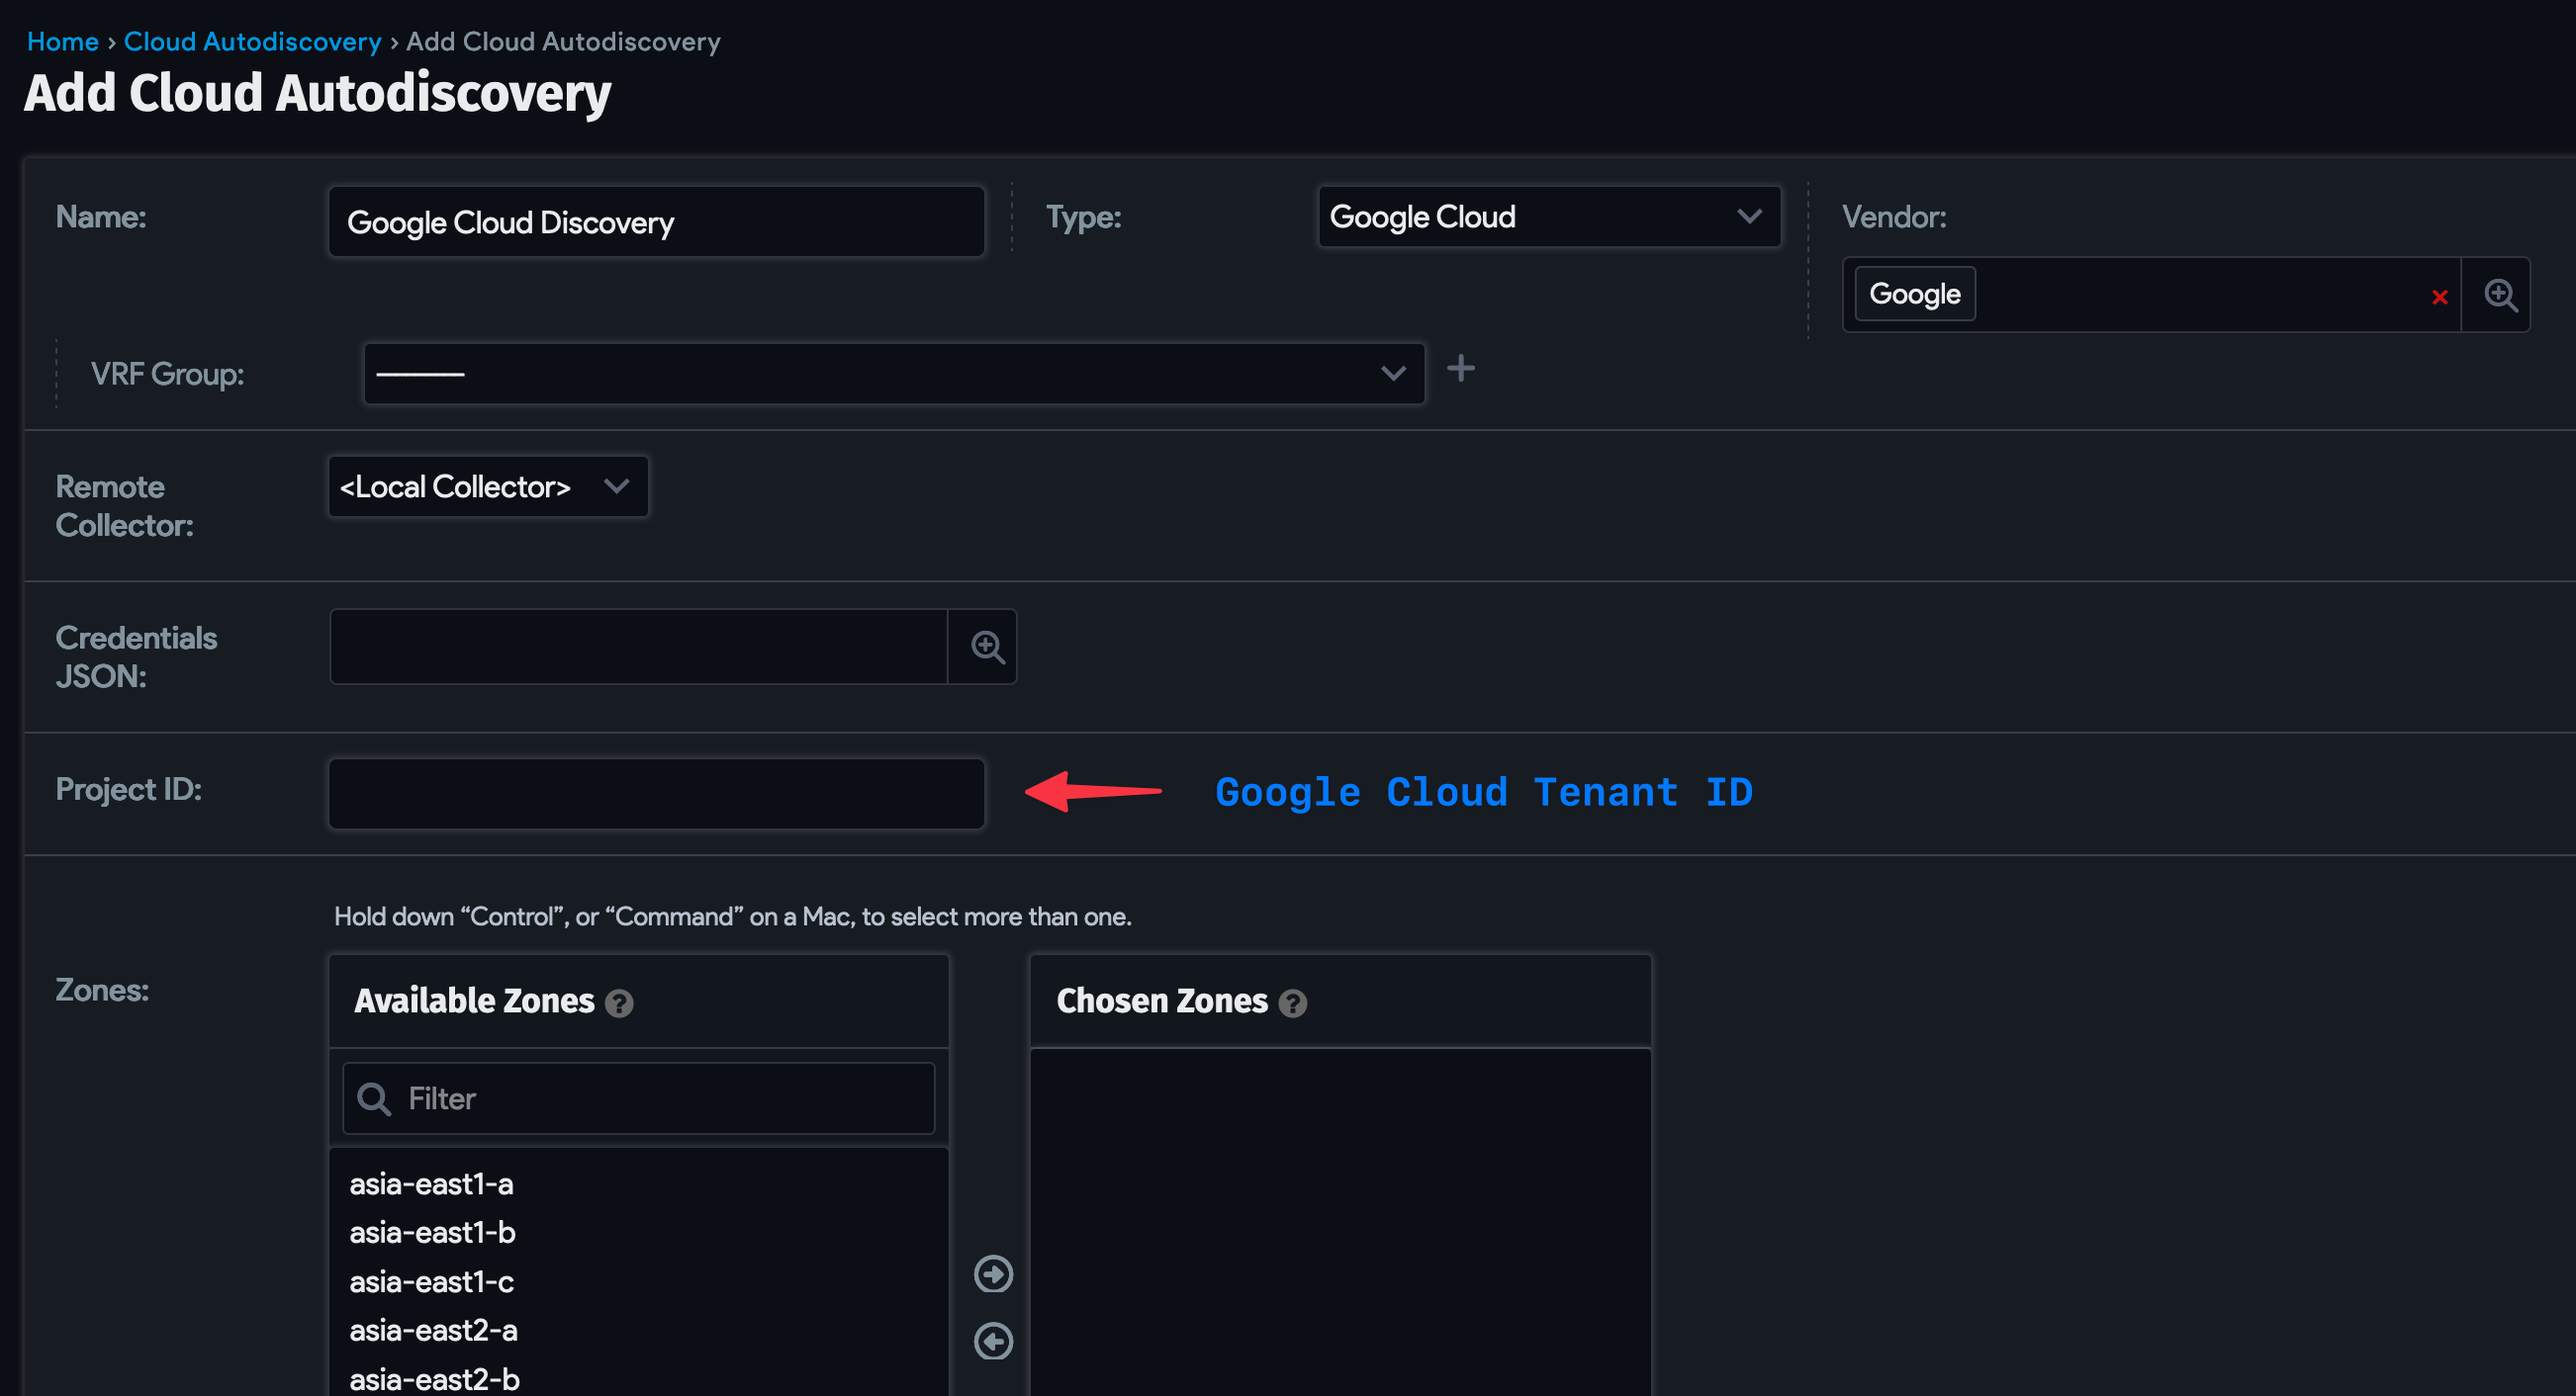
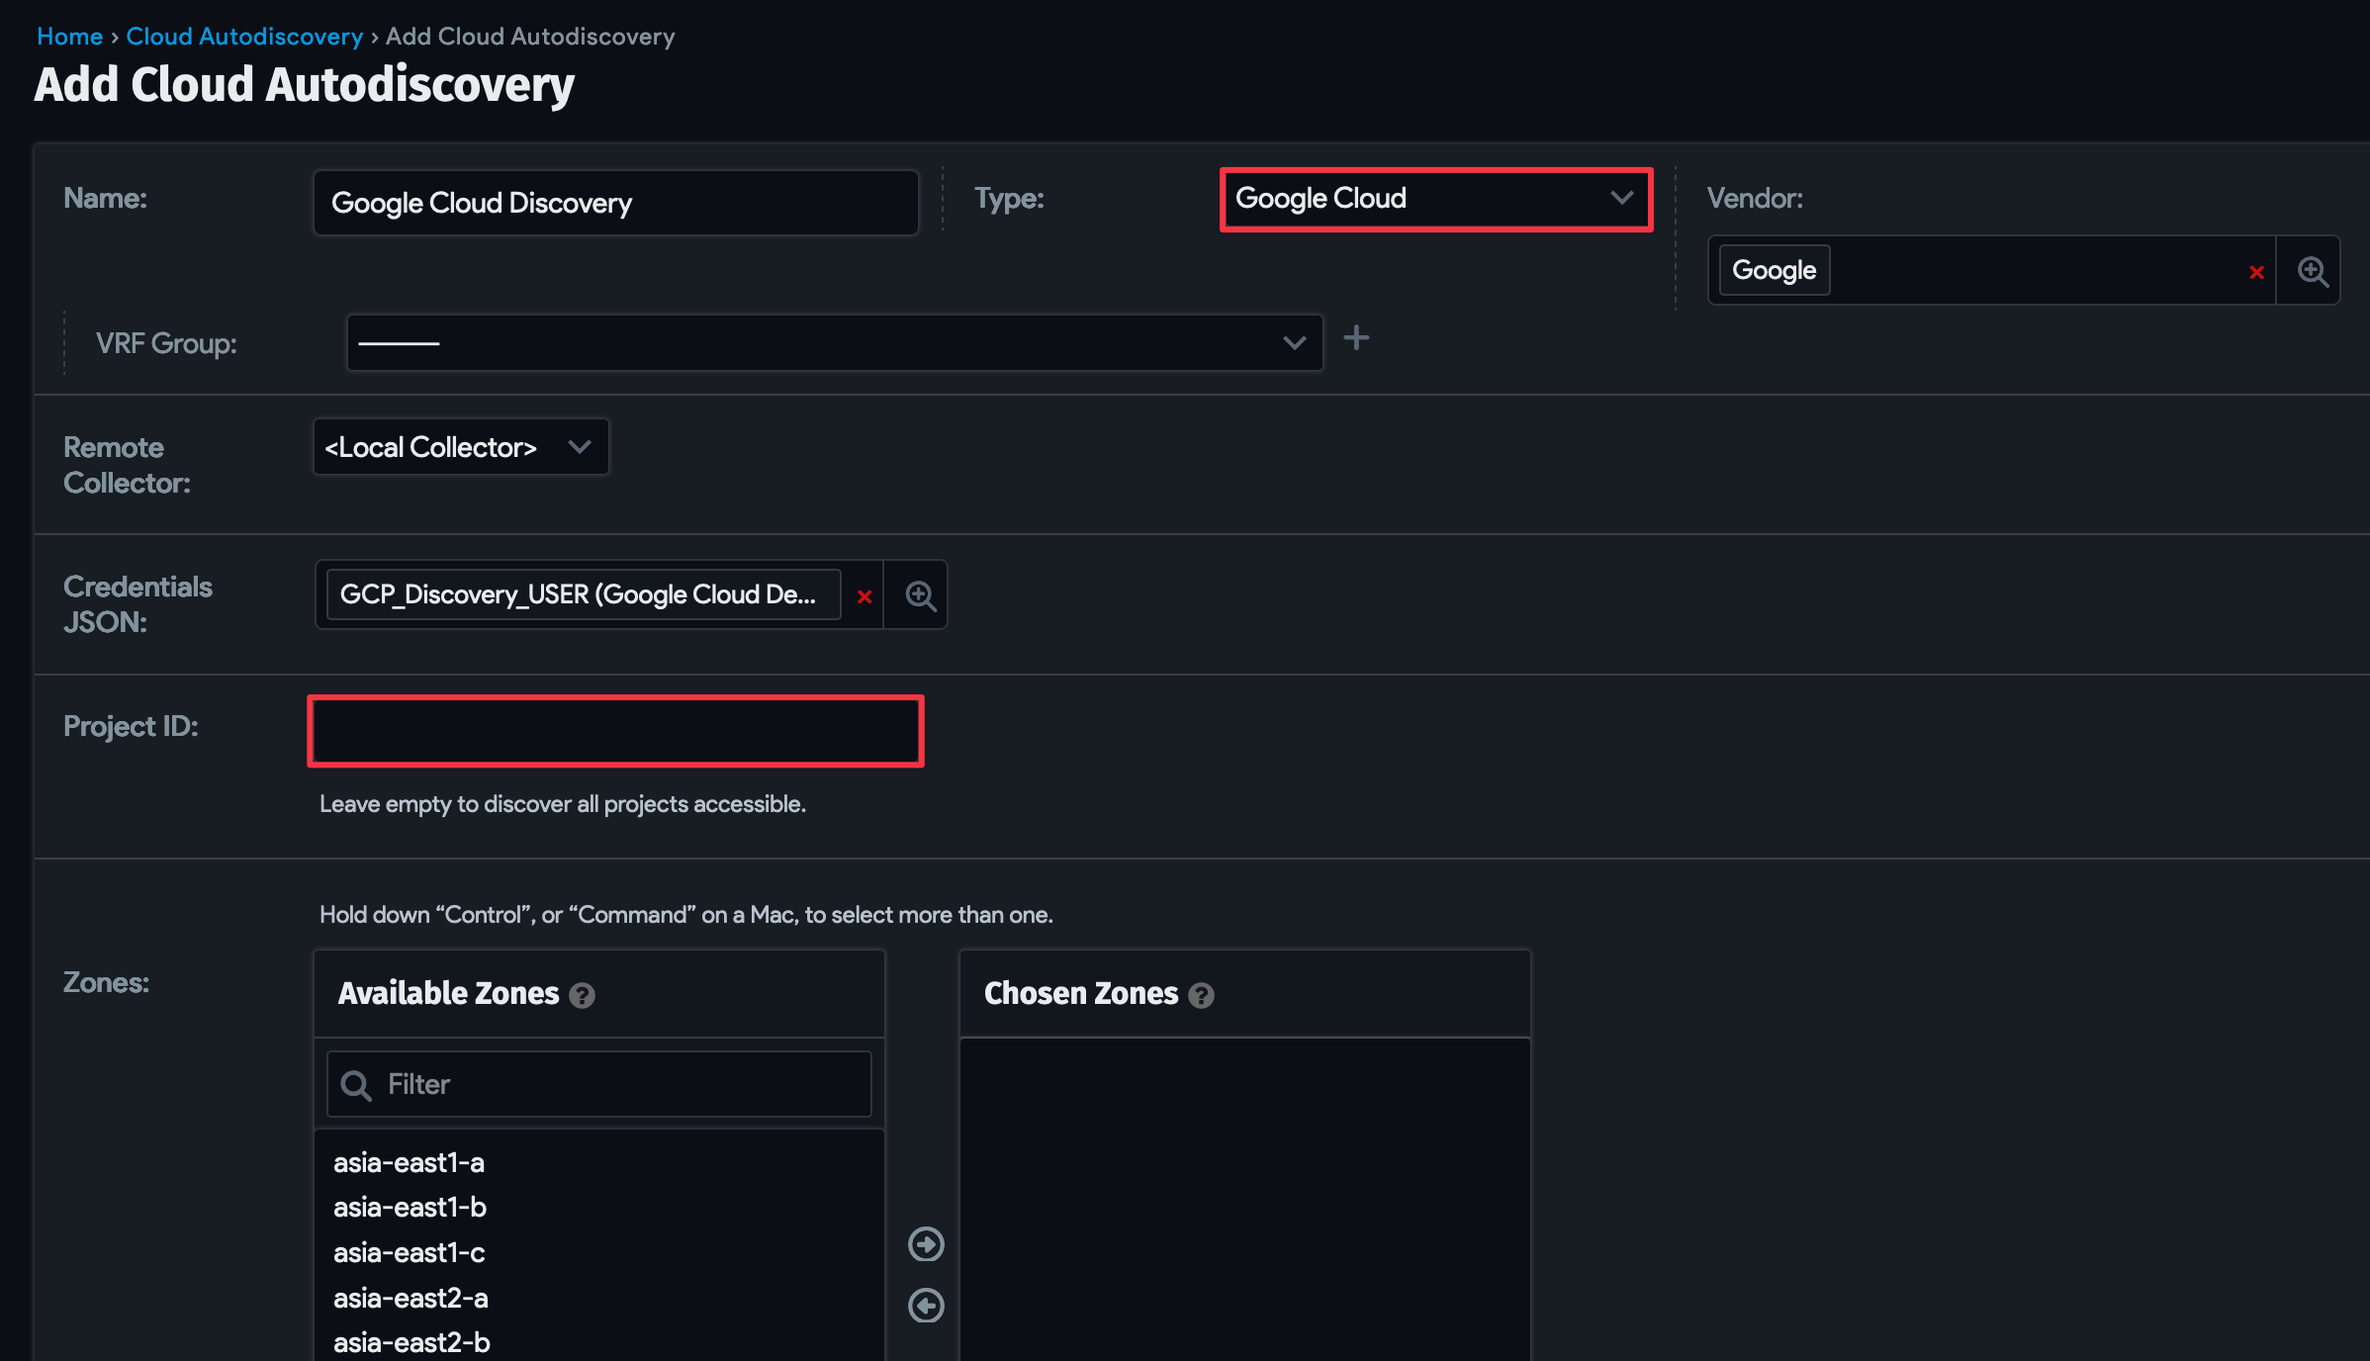
DOCS-429 update UI image and mention project ID, google-cloud-platform

diff --git a/docs/auto-discovery/cloud-auto-discovery/google-cloud-platform-autodiscovery.md b/docs/auto-discovery/cloud-auto-discovery/google-cloud-platform-autodiscovery.md
@@ -6,7 +6,9 @@ sidebar_position: 4
 import ThemedImage from '@theme/ThemedImage'
 import useBaseUrl from '@docusaurus/useBaseUrl'
 
-### GCP Discovery Items
+## Google Cloud Platform Discovery Items
+
+Device42 can discover your inventory on the Google Cloud Platform (GCP). 
 
 | Cloud Service/Object Name | Name Where to locate in D42 | Accessed API | Information Generated |
 |----------------------------|------------------------------|--------------|-----------------------|
@@ -16,15 +18,20 @@ import useBaseUrl from '@docusaurus/useBaseUrl'
 | SQL DB                      |                              | [SQL Admin API](https://www.googleapis.com/discovery/v1/apis/sqladmin/v1beta4/rest) | Tables, instances, etc. |
 | VMs                         | Devices -> All Devices       | [Compute API](https://www.googleapis.com/discovery/v1/apis/compute/v1/rest) | Type, Name, RAM, OS, CPU, cores, etc. |
 
-### Pre-requisites
+Data discovered on the Google Cloud Platform is similar to what you might be familiar with on AWS EC2 instances, namely:
 
-For Google Cloud Discovery, you will need a user account with the built-in Google Cloud Platform "Viewer" role.
+- Discovered Google Cloud VMs are added as virtual devices.
+- Cloud information is added inline in Device42 for each CI.
 
-### Configuring Google Cloud Discovery
+## Configure a GCP Discovery Job
 
-Device42 can discover your inventory on the Google Cloud Platform. Simply create a new job, add your credentials, and you'll be off discovering all of your GCP VMs.
+For Google Cloud Discovery, you need a user account with the built-in Google Cloud Platform "Viewer" role.
 
-To create a new Google Cloud discovery job, go to **Discovery > Cloud** and click **+ Add Cloud Autodiscovery**. 
+### Create a New Job
+
+To create a new Google Cloud discovery job, go to **Discovery > Cloud** and click **+ Add Cloud Autodiscovery**. Choose **Google Cloud** as the discovery **Type**.
+
+To discover all accessible projects, simply leave the **Project ID** field blank. 
 
 <ThemedImage
 alt="Add Google Cloud discovery form"
@@ -34,30 +41,23 @@ sources={{
   }}
 />
 
-1. Choose **Google Cloud** as the discovery **Type**.
+### Provide JSON Credentials
 
-2. Browse to your Google Cloud Engine JSON key. Open it in a text editor and copy the contents:
+1. Browse to your Google Cloud Engine JSON key. Open it in a text editor and copy the contents:
+  ![Google Cloud Engine JSON key](/assets/images/google-cloud-platform-autodiscovery/google-json-key.png)
+2. Paste the copied JSON in its entirety into the **Credentials JSON** field:
+  
+    <ThemedImage
+    alt="Add JSON as new Secret"
+    sources={{
+        light: useBaseUrl("/assets/images/google-cloud-platform-autodiscovery/add-json-key-light.png"),
+        dark: useBaseUrl("/assets/images/google-cloud-platform-autodiscovery/add-json-key-dark.png"),
+      }}
+    />
 
-![Google Cloud Engine JSON key](/assets/images/google-cloud-platform-autodiscovery/google-json-key.png)
+### Configuration Options
 
-3. Paste the copied JSON in its entirety into the **Credentials JSON** field:
-
-<ThemedImage
-alt="Add JSON as new Secret"
-sources={{
-    light: useBaseUrl("/assets/images/google-cloud-platform-autodiscovery/add-json-key-light.png"),
-    dark: useBaseUrl("/assets/images/google-cloud-platform-autodiscovery/add-json-key-dark.png"),
-  }}
-/>
-
-4. Save and run your job. Optionally, create a schedule to run it automatically.
-
-Data discovered on the Google Cloud Platform is similar to what you might be familiar with on AWS EC2 instances, namely:
-
-- Discovered Google Cloud VMs are added as virtual devices.
-- Cloud information is added inline in Device42 for each CI.
-
-**Options for GCE are as follows:**
+Options for GCP are as follows:
 
 - Select **Kubernetes Discovery** to discover Kubernetes clusters hosted on your cloud platform.
 
